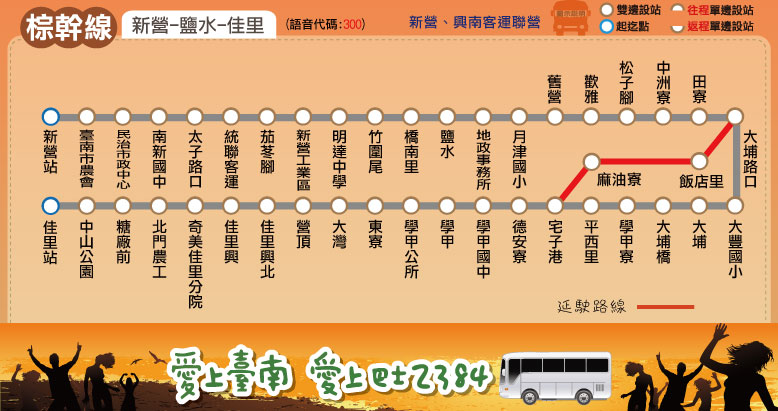
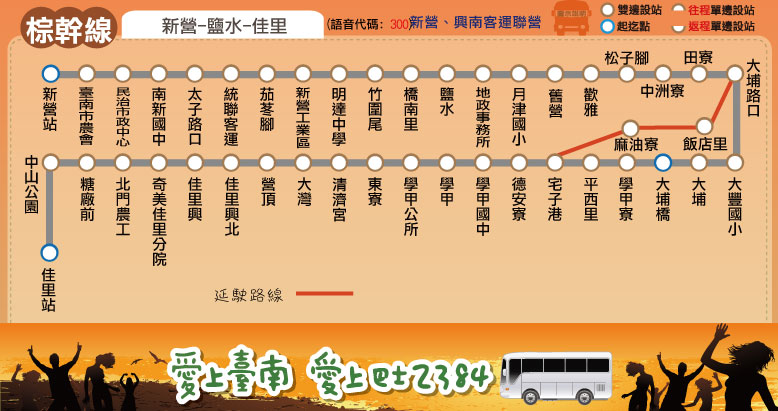
finished brown line, and add the js function for skipping some stops

diff --git a/brown/brown.html b/brown/brown.html
@@ -1,0 +1,166 @@
+<!DOCTYPE html PUBLIC "-//W3C//DTD XHTML 1.0 Strict//EN" "http://www.w3.org/TR/xhtml1/DTD/xhtml1-strict.dtd">
+<html xmlns="http://www.w3.org/1999/xhtml">
+<head>
+<meta http-equiv="Content-Type" content="text/html; charset=utf-8" />
+<title>大台南公車 ─ 棕幹線 路線資訊</title>
+<meta name="keywords" content="" />
+<meta name="description" content="" />
+<style type="text/css">
+@import url("../css/table_style.css");
+@import url("../css/default.css");
+select.get_fare{background-color: #D26900;}
+select.get_fare option.option1
+{background-color: #D26900;}
+select.get_fare option.option2
+{background-color: #966232;}
+select.get_fare option.option3
+{background-color: #FF8F19;}
+select.get_fare option.option4
+{background-color: #FFAF60;}
+select.get_fare option.option5
+{background-color: #BD701F;}
+</style>
+<script language="javascript" src="../route/msg.js"></script>
+<script language="javascript" src="../route/fare_and_time/brown.js"></script>
+<script language="javascript" src="../route/fare_and_time/show_fare_tool.js"></script>
+</head>
+<body>
+<div id="header-wrapper">
+	<div id="header" class="container">
+		<div id="menu">
+			<p align="center">
+			<a href="index.html"><img src="../img/brown_logo.png"></a>
+			</p>
+			<ul>
+				<li class="current_page_item"><a href="#" accesskey="1" title="">路線圖</a></li>
+				<li><a href="#info" accesskey="2" title="">路線資訊</a></li>
+				<li><a href="#fare" accesskey="3" title="">票價表</a></li>
+				<li><a href="#time" accesskey="4" title="">時刻表</a></li>
+				<li><a href="#transfer" accesskey="5" title="">轉乘資訊</a></li>
+			</ul>
+		</div>
+		<div id="logo">
+			<img src="../route/brown/brown.jpg">
+			<p></p>
+			<iframe src="https://mapsengine.google.com/map/embed?mid=zT0XIOZRtlhg.kjdt4phnE_dw" width="800" height="500"></iframe>
+		</div>
+	</div>
+</div>
+<div id="wrapper1">
+	<a name="info"></a>
+	<div id="routeinfo" class="container">
+		<div class="title">
+			<h2>大台南公車 ─ 棕幹線　路線資訊</h2>
+			<span class="byline">Tainan Bus brown Line, Route Information</span> </div>
+		<div class="content">
+			<table border="0">
+				<tr>
+					<td>起訖點</td>
+					<td>新營 － 佳里</td>
+				</tr>
+				<tr>
+					<td>營運公司</td>
+					<td>新營客運、興南客運</td>
+				</tr>
+				<tr>
+					<td>首／末班車發車時刻</td>
+					<td>往 佳里：06:05／20:05<br />往 新營：06:05／20:05</td>
+				</tr>
+				<tr>
+					<td>班距</td>
+					<td>固定班次 尖30離30~60</td>
+				</tr>
+				<tr>
+					<td>收費方式</td>
+					<td>里程計費</td>
+				</tr>
+			</table>
+			<p>　</p>
+			<a href="http://2384.tainan.gov.tw:8080/AGPSRemoteQuery3/ajaxBus.jsp?pathId=1300&locale=zh_TW" class="button">公車動態資訊</a> </div>
+	</div>
+</div>
+<div id="wrapper3">
+	<a name="fare"></a>
+	<div id="faretable" class="container">
+		<div class="title">
+			<h2>票價表</h2>
+			<span class="byline">Ticket Fare</span> </div>
+		<div class="content">
+			<script language="javascript">
+				create_select_menu(brown_interval_stop, 5, 'brown');
+			</script>
+			<br/>
+			<table>
+				<tr>
+					<th></th><th>全票</th><th>半票</th>
+				</tr>
+				<tr>
+					<td><b>投現</b></td>
+					<td id="cash_adult">-</td>
+					<td id="cash_half">-</td>
+				</tr>
+				<tr>
+					<td><b>電子票證</b></td>
+					<td id="RFID_adult">-</td>
+					<td id="RFID_half">-</td>
+				</tr>
+			</table>
+			<p>　</p>
+			<script language="javascript">
+				print_fare_table(brown_interval_name, brown_fare, '#FFC78E');
+				document.write('<p>　</p>');
+				document.write(MeteredMSG + PromotionMSG);
+			</script>
+			<p>　</p>
+		</div>
+	</div>
+</div>
+<div id="wrapper2">
+	<a name="time"></a>
+	<div id="timetable">
+		<div class="title">
+			<h2>時刻表</h2>
+			<span class="byline">Bus schedule</span> </div>
+		<div class="content">
+			<script language="javascript">
+				document.write('<h2><font color="brown">新營-&gt;佳里</font></h2>');
+				create_time_schedule(brown_main_stop_name, brown_main_stop_time_consume, brown_important_stop, brown_time_go, false);
+				document.write('<p>　</p>');
+				document.write('<h2><font color="brown">佳里-&gt;新營</font></h2>');
+				create_time_schedule(brown_main_stop_name, brown_main_stop_time_consume, brown_important_stop, brown_time_return, true);
+				document.write(TimeScheduleMSG);
+			</script>
+		</div>
+	</div>
+</div>
+<div id="wrapper4">
+	<a name="transfer"></a>
+	<div id="transfer" class="container">
+		<div class="title">
+			<h2>大台南公車－棕幹線 主要轉乘點資訊</h2>
+			<span class="byline">Tainan bus Brown line, Transfer information</span>
+		</div>
+		<div class="content">
+			<table>
+				<tr>
+					<th rowspan="7">新營</th>
+					<td style="text-align: center"><img src="../route/transfer/railway.png"></td>
+					<td>台鐵新營站</td>
+				</tr>
+				<tr>
+					<td style="text-align: center"><img src="../route/transfer/brown_transfer_logo.png"></td>
+					<td>棕幹線</td>
+				</tr>
+				<tr>
+					<td style="text-align: center"><img src="../route/transfer/yellow_transfer_logo.png"></td>
+					<td>黃幹線</td>
+				</tr>
+			</table>
+		</div>
+	</div>
+</div>
+<div id="copyright">
+	<script type="text/javascript">document.write(copyrightMSG);</script>
+</div>
+</body>
+</html>

diff --git a/route/fare_and_time/brown.js b/route/fare_and_time/brown.js
@@ -1,0 +1,47 @@
+brown_interval_name = ["新營","茄苳腳","鹽水","舊營","歡雅","田寮","大埔路口","大埔","學甲寮<br />麻油寮","宅子港","學甲","營頂","佳里興","佳里"];
+brown_interval_stop = [
+["新營","臺南市農會","民治市政中心","南新國中","太子路口","統聯客運"], // 新營
+["茄苳腳","新營工業區","明達中學"], // 茄苳腳
+["竹圍尾","橋南里","鹽水","地政事務所","月津國小"], // 鹽水
+["舊營"], // 舊營
+["歡雅","松子腳"], // 歡雅
+["中洲寮","田寮"], // 田寮
+["大埔路口"], // 大埔路口
+["大豐國小","大埔","大埔橋"], // 大埔
+["學甲寮","平西里","(繞)飯店里","(繞)麻油寮"], // 學甲寮, 麻油寮
+["宅子港","德安寮"], // 宅子港
+["學甲國中","學甲","學甲公所","東寮"], // 學甲
+["清濟宮","大灣","營頂"], // 營頂
+["佳里興北","佳里興","奇美佳里分院","北門農工","糖廠前"], // 佳里興
+["中山公園","佳里"] // 佳里
+];
+brown_fare = [
+[26],
+[26,26],
+[26,26,26],
+[33,26,26,26],
+[39,26,26,26,26],
+[46,31,26,26,26,26],
+[50,34,26,26,26,26,26],
+[52,36,27,26,26,26,26,26],
+[55,39,30,26,26,26,26,26,26],
+[59,43,34,26,26,26,26,26,26,26],
+[73,57,48,41,34,27,26,26,26,26,26],
+[82,67,57,50,43,36,33,30,27,26,26,26],
+[89,73,64,57,50,43,39,37,34,31,26,26,26],
+[100,84,75,68,61,54,50,48,45,42,27,26,26,26]
+];
+// format = [time at the start stop] or
+// [time, other] or
+// [time, start_stop, end_stop, other]
+brown_main_stop_name = ["新營","民治<br />市政中心","統聯<br />客運","鹽水","歡雅","大埔","麻油寮","學甲","奇美<br />佳里分院","佳里"];
+brown_main_stop_time_consume = [0, 3, 8, 18, 26, 33, 33, 43, 53, 60];
+brown_important_stop = [0, 3, 7, 9]; // 新營, 鹽水, 學甲, 佳里
+brown_time_go = [["6:05",[6]],["6:35",[5]],["7:05",[6]],["7:35",[6]],["8:05",[5]],["8:35",[6]],["9:05",[6]],["9:35",[6]],
+["10:05",[5]],["10:35",[6]],["11:05",[6]],["11:35",[6]],["12:05",[6]],["12:35",[5]],["13:05",[6]],["14:05",[6]],["14:35",[5]],
+["15:05",[6]],["15:35",[6]],["16:05",[6]],["16:35",[6]],["17:05",[5]],["17:35",[6]],["18:05",[6]],["19:05",[6]],["20:05",[6]]
+];
+brown_time_return = [["6:05",[6]],["6:35",[5]],["7:05",[6]],["7:35",[6]],["8:05",[5]],["8:35",[6]],["9:05",[6]],["9:35",[6]],
+["10:05",[5]],["10:35",[6]],["11:05",[6]],["11:35",[5]],["12:05",[6]],["12:35",[6]],["13:05",[6]],["14:05",[5]],["14:35",[6]],
+["15:05",[6]],["15:35",[6]],["16:05",[5]],["16:35",[6]],["17:05",[6]],["17:35",[6]],["18:05",[5]],["19:05",[6]],["20:05",[6]]
+];

diff --git a/route/fare_and_time/show_fare_tool.js b/route/fare_and_time/show_fare_tool.js
@@ -62,14 +62,24 @@ function create_time_schedule(main_stop_name, time_consume, important_stop, time
 				break;
 		}
 		document.write('<tr>');
+		if( Array.isArray(special_tag)==true ){ // special_tag is an array storing forbidden stop
+			forbidden = special_tag;
+			special_tag = ''; // clear special_tag
+		}
+		else forbidden = -1;
 		for(var j=start_idx; j!=end_idx; j=(isReturn==false)?(j+1):(j-1) ){
 			document.write('<td>');
 			if(isReturn==false && j<start_stop || isReturn==false && j>end_stop // not in the driving interval
 			|| isReturn==true && j>start_stop || isReturn==true && j<end_stop) ; // do nothing
+			else if( judge_important_stop(j, forbidden)==true ){ // encounter forbidden stop, print '-' instead of time to skip
+				document.write('-');
+			}
 			else if(judge_important_stop(j, important_stop)==true){
 				document.write('<font face="Arial Rounded MT Bold">' + special_tag + get_time(time[i][0], Math.abs(time_consume[j] - time_consume[start_stop]) ) + '</font>');
 			}
-			else document.write(get_time(time[i][0], Math.abs(time_consume[j] - time_consume[start_stop]) ) );
+			else{ // general case
+				document.write(get_time(time[i][0], Math.abs(time_consume[j] - time_consume[start_stop]) ) );
+			}
 			document.write('</td>');
 		}
 		document.write('</tr>');
@@ -84,6 +94,7 @@ function get_special_tag(arr){ // add some tags of special events
 			special_event += '<font color="#0000FF">W</font>';
 		else if(arr[j]=='L') // use low floor bus
 			special_event += '<font color="#FF0000">L</font>';
+		else if( !isNaN(arr[j]) ) return arr;
 		else special_event += arr[j];
 	}
 	//alert(special_event);

diff --git a/brown/index.html b/brown/index.html
@@ -11,6 +11,7 @@
 #branch{
  color:#966232;
 }
+a { color:#966232; }
 </style>
 </head>
 
@@ -26,7 +27,7 @@
   <td valign="top">
    <table>
 	<tr>
-		<td id="mainline">棕幹線</td>
+		<td id="mainline"><a href="brown.html">棕幹線</a></td>
 		<td>新營 ─ 鹽水 ─ 學甲 ─ 佳里</td>
 	</tr>
 	<tr>
